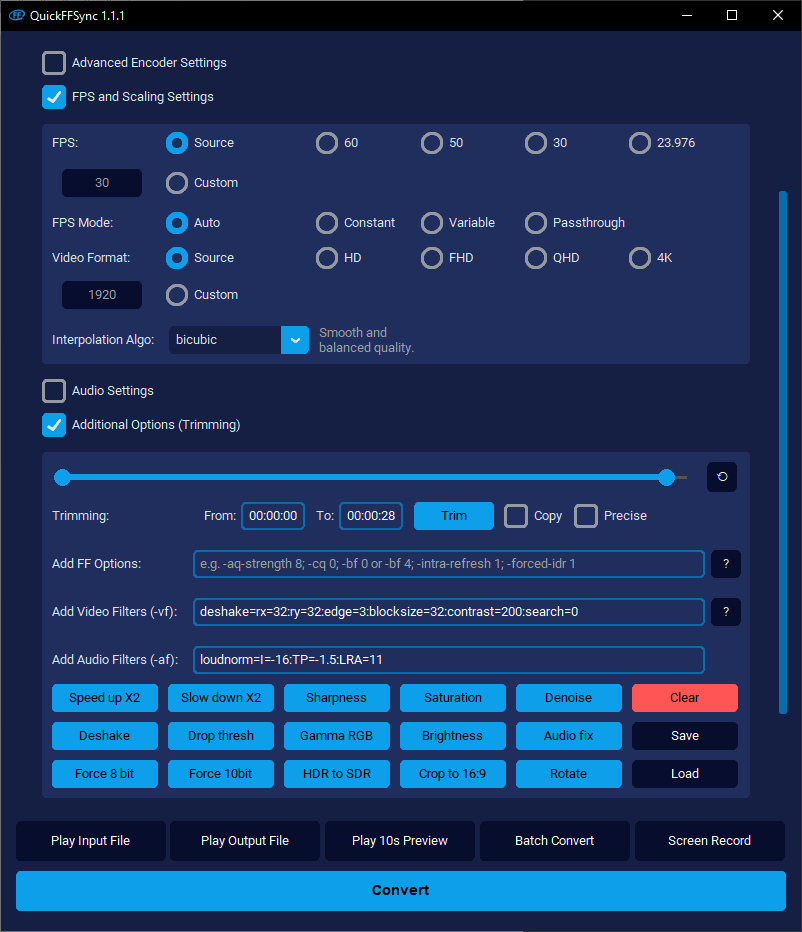
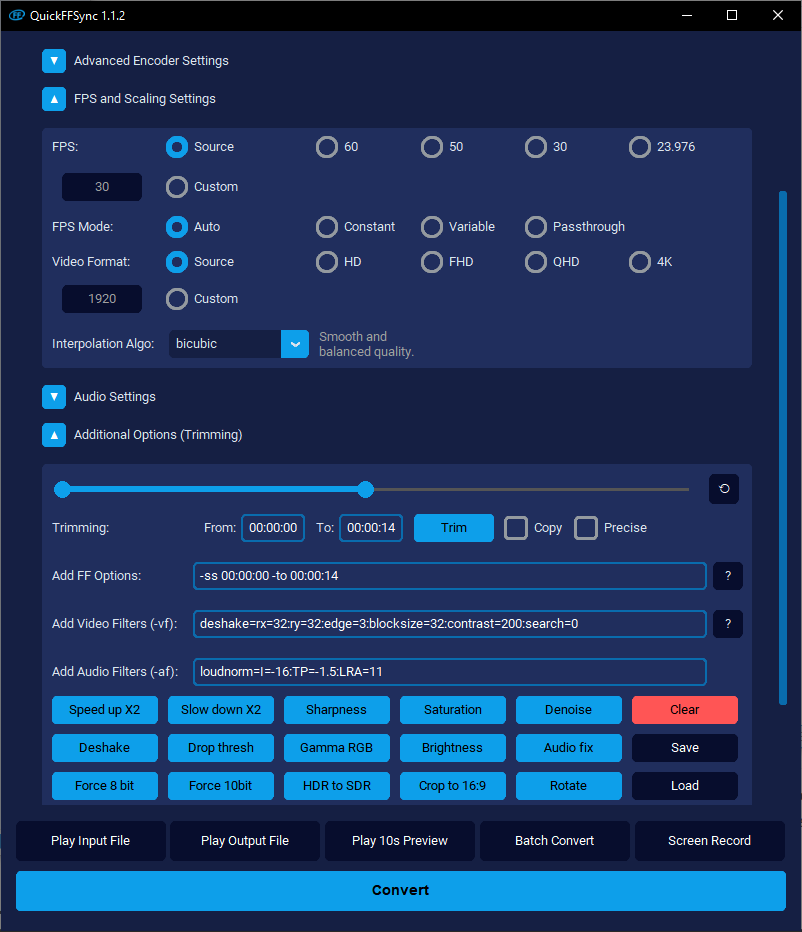
Release 1.1.2

diff --git a/QuickFFSync.py b/QuickFFSync.py
@@ -38,6 +38,79 @@ TEXT_COLOR_B = "#000000"
 PLACEHOLDER_COLOR = "#A0A0A0"
 
 
+class TextCheckbox(ctk.CTkFrame):
+    def __init__(self, master=None, text="", variable=None, command=None, **kwargs):
+        super().__init__(master, **kwargs)
+        self.configure(fg_color="transparent")
+
+        self.var = variable if variable is not None else ctk.BooleanVar()
+        self.command = command
+        self.text = text
+
+        self.unchecked_char = "▼"
+        self.checked_char = "▲"
+
+        # Main container for checkbox and text
+        self.container = ctk.CTkFrame(self, fg_color="transparent")
+        self.container.pack(anchor="w", fill="x")
+
+        # Checkbox as a label
+        self.checkbox_label = ctk.CTkLabel(
+            self.container,
+            text=self.unchecked_char,
+            width=24,
+            height=24,
+            corner_radius=6,
+            fg_color=ACCENT_BLUE,
+            text_color=TEXT_COLOR_W,
+            cursor="hand2",
+        )
+        self.checkbox_label.pack(side="left", padx=(0, 8))
+
+        # Text label
+        self.text_label = ctk.CTkLabel(
+            self.container,
+            text=text,
+            cursor="hand2",
+        )
+        self.text_label.pack(side="left", fill="x", expand=True)
+
+        # Bind click events to both labels
+        self.checkbox_label.bind("<Button-1>", self.toggle)
+        self.text_label.bind("<Button-1>", self.toggle)
+
+        # Add hover effects
+        self.checkbox_label.bind("<Enter>", self._on_hover)
+        self.checkbox_label.bind("<Leave>", self._on_leave)
+        self.text_label.bind("<Enter>", self._on_hover)
+        self.text_label.bind("<Leave>", self._on_leave)
+
+        self.var.trace_add("write", self.update_display)
+
+    def _on_hover(self, event):
+        self.checkbox_label.configure(fg_color=HOVER_BLUE)
+
+    def _on_leave(self, event):
+        self.checkbox_label.configure(fg_color=ACCENT_BLUE)
+
+    def toggle(self, event=None):
+        self.var.set(not self.var.get())
+        if self.command:
+            self.command()
+
+    def update_display(self, *args):
+        if self.var.get():
+            self.checkbox_label.configure(text=self.checked_char)
+        else:
+            self.checkbox_label.configure(text=self.unchecked_char)
+
+    def get(self):
+        return self.var.get()
+
+    def set(self, value):
+        self.var.set(value)
+
+
 # DRAG N DROP FILES
 class DropTarget:
     def __init__(self, hwnd, callback):
@@ -537,7 +610,7 @@ class VideoConverterApp:
         self.batch_files = []
         self.video_metadata_cache = {}
         self.master = master
-        master.title("QuickFFSync 1.1.1")
+        master.title("QuickFFSync 1.1.2")
         master.geometry("800x700")
         master.minsize(800, 700)
         master.maxsize(800, 900)
@@ -935,13 +1008,11 @@ class VideoConverterApp:
         vp9_rb.pack(side="left", padx=5)
 
         # Encoder Options
-        encoder_options_frame_toggle = ctk.CTkCheckBox(
+        encoder_options_frame_toggle = TextCheckbox(
             main_frame,
             text="Advanced Encoder Settings",
             variable=self.enable_encoder_options,
             command=self._toggle_encoder_options_frame,
-            fg_color=ACCENT_BLUE,
-            hover_color=HOVER_BLUE,
         )
         encoder_options_frame_toggle.grid(row=5, column=0, sticky="w", padx=10, pady=5)
 
@@ -1190,13 +1261,11 @@ class VideoConverterApp:
         )
 
         # FPS and Scaling
-        fps_scale_frame_toggle = ctk.CTkCheckBox(
+        fps_scale_frame_toggle = TextCheckbox(
             main_frame,
             text="FPS and Scaling Settings",
             variable=self.enable_fps_scale_options,
             command=self._toggle_fps_scale_options_frame,
-            fg_color=ACCENT_BLUE,
-            hover_color=HOVER_BLUE,
         )
         fps_scale_frame_toggle.grid(row=7, column=0, sticky="w", padx=10, pady=5)
 
@@ -1355,13 +1424,11 @@ class VideoConverterApp:
         ).grid(row=6, column=2, sticky="w", padx=5)
 
         # Audio Settings Toggle
-        audio_frame_toggle = ctk.CTkCheckBox(
+        audio_frame_toggle = TextCheckbox(
             main_frame,
             text="Audio Settings",
             variable=self.enable_audio_options,
             command=self._toggle_audio_options_frame,
-            fg_color=ACCENT_BLUE,
-            hover_color=HOVER_BLUE,
         )
         audio_frame_toggle.grid(row=9, column=0, sticky="w", padx=10, pady=5)
 
@@ -1435,13 +1502,11 @@ class VideoConverterApp:
             rb.grid(row=1, column=i + 2, sticky="w", padx=15, pady=10)
 
         # Additional Options
-        additional_options_toggle = ctk.CTkCheckBox(
+        additional_options_toggle = TextCheckbox(
             main_frame,
             text="Additional Options (Trimming)",
             variable=self.enable_additional_options,
             command=self._toggle_additional_options_frame,
-            fg_color=ACCENT_BLUE,
-            hover_color=HOVER_BLUE,
         )
         additional_options_toggle.grid(row=11, column=0, sticky="w", padx=10, pady=5)
         self.additional_options_frame = ctk.CTkFrame(main_frame, fg_color=SECONDARY_BG)
@@ -1848,13 +1913,11 @@ class VideoConverterApp:
         ).pack(side="left")
 
         # Presets Section
-        presets_frame_toggle = ctk.CTkCheckBox(
+        presets_frame_toggle = TextCheckbox(
             main_frame,
             text="Presets",
             variable=self.enable_presets,
             command=self._toggle_presets_frame,
-            fg_color=ACCENT_BLUE,
-            hover_color=HOVER_BLUE,
         )
         presets_frame_toggle.grid(row=13, column=0, sticky="w", padx=10, pady=5)
         self.presets_frame = ctk.CTkFrame(main_frame, fg_color=SECONDARY_BG)
@@ -2925,7 +2988,7 @@ class VideoConverterApp:
                 "saved_additional_options": self.saved_additional_options.get(),
                 "saved_additional_filter_options": self.saved_additional_filter_options.get(),
                 "saved_additional_audio_filter_options": self.saved_additional_audio_filter_options.get(),
-                "version": "1.1.1",
+                "version": "1.1.2",
             }
 
             with open(settings_file, "w", encoding="utf-8") as file:
@@ -3111,31 +3174,29 @@ class VideoConverterApp:
 
         # Check for scaling/FPS filters
         vf_filters = []
-        if self.enable_fps_scale_options.get():
-            fps_num = self.fps_option.get()
-            if fps_num == "custom":
-                fps_num = self.custom_fps.get()
-                if not fps_num:
-                    raise ValueError("Please specify custom FPS.")
-            if fps_num != "source":
-                vf_filters.append(f"fps={fps_num}")
-                has_video_filters = True
-            scale_width = self.video_format_option.get()
-            if scale_width == "custom":
-                scale_width = self.custom_video_width.get()
-                if not scale_width:
-                    raise ValueError("Please specify custom video width.")
-            if scale_width != "source":
-                interp_flag = self.interpolation_algo.get()
-                vf_filters.append(f"scale={scale_width}:-2:flags={interp_flag}")
-                has_video_filters = True
+        fps_num = self.fps_option.get()
+        if fps_num == "custom":
+            fps_num = self.custom_fps.get()
+            if not fps_num:
+                raise ValueError("Please specify custom FPS.")
+        if fps_num != "source":
+            vf_filters.append(f"fps={fps_num}")
+            has_video_filters = True
+        scale_width = self.video_format_option.get()
+        if scale_width == "custom":
+            scale_width = self.custom_video_width.get()
+            if not scale_width:
+                raise ValueError("Please specify custom video width.")
+        if scale_width != "source":
+            interp_flag = self.interpolation_algo.get()
+            vf_filters.append(f"scale={scale_width}:-2:flags={interp_flag}")
+            has_video_filters = True
 
         # Check for additional video filters
-        if self.enable_additional_options.get():
-            addvf_val = self.additional_filter_options.get().strip()
-            if addvf_val and addvf_val != self.additional_filter_options_placeholder:
-                vf_filters.append(addvf_val)
-                has_video_filters = True
+        addvf_val = self.additional_filter_options.get().strip()
+        if addvf_val and addvf_val != self.additional_filter_options_placeholder:
+            vf_filters.append(addvf_val)
+            has_video_filters = True
 
         # Check for specific pixel formats in additional options
         if self.enable_additional_options.get():
@@ -3293,13 +3354,12 @@ class VideoConverterApp:
             command.extend(other_additional_options)
 
         # Add audio filters if any
-        if self.enable_additional_options.get():
-            add_af_val = self.additional_audio_filter_options.get().strip()
-            if (
-                add_af_val
-                and add_af_val != self.additional_audio_filter_options_placeholder
-            ):
-                command.extend(["-af", add_af_val])
+        add_af_val = self.additional_audio_filter_options.get().strip()
+        if (
+            add_af_val
+            and add_af_val != self.additional_audio_filter_options_placeholder
+        ):
+            command.extend(["-af", add_af_val])
 
         # Audio settings
         audio_opt = self.audio_option.get()

diff --git a/README.md b/README.md
@@ -103,8 +103,8 @@ You can compile the Python script into a standalone Windows executable (`.exe`) 
       --include-data-file=qff-about.txt=./qff-about.txt ^
       --include-data-file=qff-license.txt=./qff-license.txt ^
       --product-name="QuickFFSync" ^
-      --product-version="1.1.1" ^
-      --file-version="1.1.1" ^
+      --product-version="1.1.2" ^
+      --file-version="1.1.2" ^
       --file-description="QuickFFSync" ^
       --company-name="Deepseek Enjoyer" ^
       --copyright="Copyright (C) 2025 hadouken" ^

diff --git a/CHANGELOG.md b/CHANGELOG.md
@@ -1,5 +1,8 @@
 # QuickFFSync - Changelog
 
+## [1.1.2] - 2025-11-15
+- UI/UX fixes and updates.
+
 ## [1.1.1] - 2025-10-28
 - Additional Options: Added "Save/Load" buttons for custom filter settings;
 - UI fixes.
